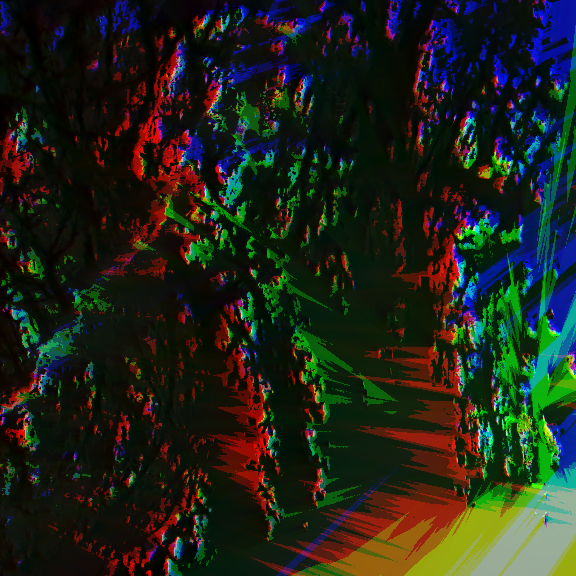
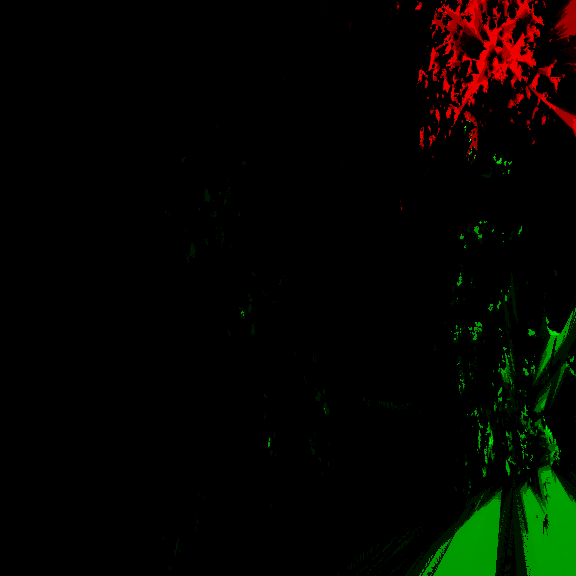
Streng beregning: støygulv, kalibrering mot målt mottak, skog og flere rygger
Den første utgaven var for raus; et sted den kalte godt, ga ikke mottak.
God dekning krever nå -105,5 dBm etter 12 dB kalibrering, tap over opptil
tre terrengrygger og demping i skog og bebyggelse (ESA WorldCover).
Nye steder å prøve, og usikker dekning vises som standard.

Claude-Session: https://claude.ai/code/session_01CYNK5MJwqcMcvN7AYTRmWK

diff --git a/index.html b/index.html
@@ -135,7 +135,7 @@ tr.svak td { color: var(--blekk2); }
       <label class="felt" for="node">Node
         <select id="node"><option value="-1">Alle noder</option></select>
       </label>
-      <label class="felt" for="usikker"><input type="checkbox" id="usikker"> Vis usikker dekning</label>
+      <label class="felt" for="usikker"><input type="checkbox" id="usikker" checked> Vis usikker dekning</label>
       <span class="merknad" id="frakoblet" hidden>Uten nett · lagret kart</span>
     </div>
   </header>
@@ -161,13 +161,16 @@ tr.svak td { color: var(--blekk2); }
       </section>
       <section>
         <h2>Steder å prøve</h2>
+        <p class="liten">Ingen steder i byen gir sikker dekning med den strenge beregningen. Dette er de beste sjansene.</p>
         <div class="steder" id="steder"></div>
       </section>
       <section class="liten">
         <h2>Slik er kartet laget</h2>
-        <p>Beregnet 21.11.2026 for en node holdt 1,5 m over bakken med liten innebygd antenne. Senderne er regnet med 22 dBm og 2 dBi.</p>
-        <p>God dekning betyr minst −115 dBm og sikt eller bare lett skygge fra terrenget. Usikker dekning er signal som må bøye seg over en rygg; det slår ofte ikke til.</p>
-        <p>Trær og hus er bare grovt med (30 m terrengmodell), og nodenes posisjoner er avrundet på map.868.no. Noder som bare er angitt på noen kilometer nær, som Sandø, er regnet fra flere mulige plasser, og dekningen vises der flertallet av dem gir den.</p>
+        <p>Streng beregning fra 21.11.2026 for en node holdt 1,5 m over bakken med 0 dBi antenne. Den forrige utgaven var for raus: Preståsen ga ikke mottak.</p>
+        <p>God dekning betyr minst −105 dBm, som er 6 dB over det svakeste noden kan lese når støygulvet er −104 dBm. Usikker dekning er de siste 6 dB ned til grensen.</p>
+        <p>Alle signaler er trukket ned 12 dB, etter et målt mottak med samme node over 38 km fri sikt. I tillegg kommer tap over opptil tre terrengrygger og gjennom skog og bebyggelse de siste 200 m.</p>
+        <p>Nodenes posisjoner er avrundet på map.868.no. Noder som bare er angitt på noen kilometer nær, som Sandø, må gi dekning fra fire av fem mulige plasser.</p>
+        <p>Nodene sender sjelden. Bli stående 15–20 minutter før du gir opp et sted.</p>
         <p>Bruk kartet til å velge hvor du går, ikke som fasit.</p>
       </section>
       <section class="liten" id="installer" hidden>
@@ -180,18 +183,17 @@ tr.svak td { color: var(--blekk2); }
 
 <script src="https://cdnjs.cloudflare.com/ajax/libs/leaflet/1.9.4/leaflet.min.js"></script>
 <script>
-const DATA = {"nx": 576, "ny": 576, "nord": 59.232176269218044, "sor": 59.02924933736394, "vest": 10.08544921875, "ost": 10.48095703125, "z": 14, "x1": 8651, "x2": 8668, "y1": 4827, "y2": 4844, "forutsetninger": {"sender_dbm": 22, "sender_dbi": 2, "kabel_db": 1, "mottaker_dbi": 0, "mottaker_m": 1.5, "god_dbm": -115.0, "tap_maks_db": 10.0}, "noder": [{"navn": "R-TEL-FJERDINGEN", "rolle": "ROUTER", "lat": 59.13559, "lon": 9.76808, "km": 29.2, "pakker6t": 7, "bits": 15, "plasser": 1}, {"navn": "R-FAE-SANDØ-WAM7", "rolle": "ROUTER", "lat": 59.08066, "lon": 10.46291, "km": 12.7, "pakker6t": 31, "bits": 13, "plasser": 5}, {"navn": "Råde, Rørfjell", "rolle": "ROUTER", "lat": 59.29779, "lon": 10.83226, "km": 36.4, "pakker6t": 6, "bits": 32, "plasser": 1}, {"navn": "Tux Brudeberget 18dBm", "rolle": "ROUTER", "lat": 59.47009, "lon": 9.90786, "km": 45.0, "pakker6t": 7, "bits": 13, "plasser": 5}, {"navn": "JELOYA-RUTER-NORTH", "rolle": "ROUTER", "lat": 59.42175, "lon": 10.59239, "km": 36.8, "pakker6t": 23, "bits": 32, "plasser": 1}, {"navn": "R-FÆR-Nøtterøy-Venås", "rolle": "ROUTER", "lat": 59.21006, "lon": 10.42634, "km": 12.2, "pakker6t": 4, "bits": 15, "plasser": 1}, {"navn": "Fredrikstad, Bjølstad", "rolle": "CLIENT_BASE", "lat": 59.20812, "lon": 10.91983, "km": 37.7, "pakker6t": 3, "bits": 15, "plasser": 1}, {"navn": "HORTEN-BASE-NORTH", "rolle": "CLIENT_BASE", "lat": 59.4125, "lon": 10.46852, "km": 32.6, "pakker6t": 7, "bits": 15, "plasser": 1}], "lagfiler": ["dekning-0.png", "dekning-1.png", "dekning-2.png"], "basis": [], "start": null, "sentrum": {"navn": "Sandefjord sentrum", "lat": 59.1312, "lon": 10.2167}, "steder": [{"navn": "Preståsen", "lat": 59.13386, "lon": 10.23823}, {"navn": "Breidablikk", "lat": 59.14759, "lon": 10.22655}, {"navn": "Storåsen", "lat": 59.16132, "lon": 10.2396}, {"navn": "Ringkollen", "lat": 59.11589, "lon": 10.25814}], "reserve": [{"fil": "kart14-00.jpg", "nord": 59.232176269218044, "sor": 59.130863097255904, "vest": 10.08544921875, "ost": 10.283203125}, {"fil": "kart14-01.jpg", "nord": 59.232176269218044, "sor": 59.130863097255904, "vest": 10.283203125, "ost": 10.48095703125}, {"fil": "kart14-10.jpg", "nord": 59.130863097255904, "sor": 59.02924933736394, "vest": 10.08544921875, "ost": 10.283203125}, {"fil": "kart14-11.jpg", "nord": 59.130863097255904, "sor": 59.02924933736394, "vest": 10.283203125, "ost": 10.48095703125}, {"fil": "kart15-0.jpg", "nord": 59.17029835064482, "sor": 59.130863097255904, "vest": 10.162353515625, "ost": 10.294189453125}, {"fil": "kart15-1.jpg", "nord": 59.130863097255904, "sor": 59.091382384559104, "vest": 10.162353515625, "ost": 10.294189453125}], "nett": true, "fliser": "https://cache.kartverket.no/v1/wmts/1.0.0/topograatone/default/webmercator/{z}/{y}/{x}.png"};
-const GOD = DATA.forutsetninger.god_dbm;
+const DATA = {"nx": 576, "ny": 576, "nord": 59.232176269218044, "sor": 59.02924933736394, "vest": 10.08544921875, "ost": 10.48095703125, "z": 14, "x1": 8651, "x2": 8668, "y1": 4827, "y2": 4844, "forutsetninger": {"sender_dbm": 22, "sender_dbi": 2, "kabel_db": 1, "mottaker_dbi": 0, "mottaker_m": 1.5, "kalibrering_db": 12.0, "stoy_dbm": -104.0, "lesbar_dbm": -111.5, "god_dbm": -105.5, "skog_db_m": 0.15, "skog_maks_db": 20.0, "hus_db_m": 0.1, "hus_maks_db": 12.0}, "noder": [{"navn": "R-FÆR-Nøtterøy-Venås", "rolle": "ROUTER", "lat": 59.21006, "lon": 10.42634, "km": 12.2, "pakker6t": 4, "bits": 15, "plasser": 1}, {"navn": "R-FAE-SANDØ-WAM7", "rolle": "ROUTER", "lat": 59.08066, "lon": 10.46291, "km": 12.7, "pakker6t": 31, "bits": 13, "plasser": 5}], "lagfiler": ["dekning-0.png"], "basis": [], "start": null, "sentrum": {"navn": "Sandefjord sentrum", "lat": 59.1312, "lon": 10.2167}, "steder": [{"navn": "Hubroåsen", "lat": 59.12223, "lon": 10.25265}, {"navn": "Midtås", "lat": 59.14337, "lon": 10.21763}, {"navn": "Ringkollen", "lat": 59.11589, "lon": 10.25883}, {"navn": "Hjertås", "lat": 59.16379, "lon": 10.22793}], "reserve": [{"fil": "kart14-00.jpg", "nord": 59.232176269218044, "sor": 59.130863097255904, "vest": 10.08544921875, "ost": 10.283203125}, {"fil": "kart14-01.jpg", "nord": 59.232176269218044, "sor": 59.130863097255904, "vest": 10.283203125, "ost": 10.48095703125}, {"fil": "kart14-10.jpg", "nord": 59.130863097255904, "sor": 59.02924933736394, "vest": 10.08544921875, "ost": 10.283203125}, {"fil": "kart14-11.jpg", "nord": 59.130863097255904, "sor": 59.02924933736394, "vest": 10.283203125, "ost": 10.48095703125}, {"fil": "kart15-0.jpg", "nord": 59.17029835064482, "sor": 59.130863097255904, "vest": 10.162353515625, "ost": 10.294189453125}, {"fil": "kart15-1.jpg", "nord": 59.130863097255904, "sor": 59.091382384559104, "vest": 10.162353515625, "ost": 10.294189453125}], "nett": true, "fliser": "https://cache.kartverket.no/v1/wmts/1.0.0/topograatone/default/webmercator/{z}/{y}/{x}.png"};
 const nx = DATA.nx, ny = DATA.ny, PER = nx / (DATA.x2 - DATA.x1 + 1);
 const N2 = Math.pow(2, DATA.z);
 const tall = (v, d = 0) => v.toLocaleString("nb-NO", { minimumFractionDigits: d, maximumFractionDigits: d }).replace("-", "−");
-const SIKT = ["bak terreng, usikker", "lett skygge", "streifer terrenget", "fri sikt"];
+const SIKT = ["på grensen, usikker", "bak terreng", "streifer terrenget", "fri sikt"];
 const RETN = ["N", "NØ", "Ø", "SØ", "S", "SV", "V", "NV"];
 
 let lag = [];            // én Uint8Array per node
 let visning = "signal";  // signal | antall
 let valgt = -1;          // nodeindeks, -1 = alle
-let visUsikker = false;
+let visUsikker = true;
 let godAntall = null;    // antall noder med god dekning per rute
 let meg = null;          // {lat, lon} når brukeren har markert seg selv
 let megMerke = null;
@@ -240,7 +242,7 @@ function farge(navn) {
   const h = getComputedStyle(document.documentElement).getPropertyValue(navn).trim().replace("#", "");
   return [parseInt(h.slice(0, 2), 16), parseInt(h.slice(2, 4), 16), parseInt(h.slice(4, 6), 16)];
 }
-const trinnSignal = rx => rx < -105 ? 0 : rx < -95 ? 1 : rx < -85 ? 2 : 3;
+const trinnSignal = rx => rx < -100 ? 0 : rx < -95 ? 1 : rx < -85 ? 2 : 3;
 const trinnAntall = n => n >= 5 ? 3 : n >= 3 ? 2 : n - 1;
 
 function tegn() {
@@ -255,7 +257,6 @@ function tegn() {
       const b = aktuelle[k][p];
       if (!b) continue;
       const rx = (b & 63) - 128;
-      if (rx < GOD) continue;
       if (b >> 6) { antall++; if (rx > best) best = rx; } else usikker = true;
     }
     if (antall) {
@@ -273,8 +274,8 @@ function tegn() {
 function tegnForklaring() {
   const rader = visning === "antall"
     ? [["--s4", "5 eller flere"], ["--s3", "3–4"], ["--s2", "2"], ["--s1", "1"]]
-    : [["--s4", "−85 eller sterkere"], ["--s3", "−95 til −85"], ["--s2", "−105 til −95"], ["--s1", "−115 til −105"]];
-  if (visUsikker) rader.push(["--usikker", "Bak terreng, usikker"]);
+    : [["--s4", "−85 eller sterkere"], ["--s3", "−95 til −85"], ["--s2", "−100 til −95"], ["--s1", "−105 til −100"]];
+  if (visUsikker) rader.push(["--usikker", "På grensen, usikker"]);
   const tittel = visning === "antall" ? "Noder med god dekning" : (valgt >= 0 ? "Signal fra valgt node, dBm" : "Sterkeste node, dBm");
   document.getElementById("forklaring").innerHTML = `<h2>${tittel}</h2><ul>` +
     rader.map(r => `<li><span class="rute" style="background:var(${r[0]})"></span>${r[1]}</li>`).join("") + "</ul>";
@@ -326,16 +327,16 @@ function noderI(p) {
   lag.forEach((l, k) => { const b = l[p]; if (b) ut.push({ k, rx: (b & 63) - 128, sikt: b >> 6 }); });
   return ut.sort((a, b) => b.rx - a.rx);
 }
-const gode = liste => liste.filter(n => n.sikt >= 1 && n.rx >= GOD);
+const gode = liste => liste.filter(n => n.sikt >= 1);
 
 function les(lat, lon, navn) {
   sikte.setLatLng([lat, lon]);
-  const alle = noderI(rute(lat, lon)), g = gode(alle), u = alle.filter(n => n.sikt === 0 && n.rx >= GOD);
+  const alle = noderI(rute(lat, lon)), g = gode(alle), u = alle.filter(n => n.sikt === 0);
   let h = `<h2>${navn || "Valgt punkt"}</h2><div class="hvor">${[tall(lat, 5) + ", " + tall(lon, 5), fraStart(lat, lon)].filter(Boolean).join(" · ")}</div>`;
   h += `<div class="dom">${g.length ? (g.length === 1 ? "Én node med god dekning" : g.length + " noder med god dekning") : "Ingen noder med god dekning her"}</div>`;
   const rad = (n, kl) => `<tr class="${kl}"><td>${DATA.noder[n.k].navn}<span class="sikt">${SIKT[n.sikt]} · ${tall(DATA.noder[n.k].km_fra(lat, lon), 1)} km unna${DATA.noder[n.k].bits <= 14 ? " · plassen er grovt angitt" : ""}</span></td><td class="tall">${tall(n.rx)} dBm</td></tr>`;
   if (g.length || u.length) h += "<table>" + g.map(n => rad(n, "")).join("") + u.slice(0, 4).map(n => rad(n, "svak")).join("") + "</table>";
-  if (!g.length && !u.length) h += "<p>Terrenget stenger for alle nodene. Prøv et høyere eller mer åpent sted.</p>";
+  if (!g.length && !u.length) h += "<p>Ingen noder er sterke nok her. Prøv et åpent sted med fri sikt mot en node.</p>";
   siste = { lat, lon, naer: null };
   if (!g.length) {
     const n = naermesteGode(lat, lon);
@@ -476,7 +477,7 @@ function lastLag(fil) {
 Promise.all(DATA.lagfiler.map(lastLag)).then(deler => {
   lag = deler.flat().slice(0, DATA.noder.length);
   godAntall = new Uint8Array(nx * ny);
-  lag.forEach(l => { for (let p = 0; p < nx * ny; p++) { const b = l[p]; if (b >> 6 && (b & 63) - 128 >= GOD) godAntall[p]++; } });
+  lag.forEach(l => { for (let p = 0; p < nx * ny; p++) { const b = l[p]; if (b >> 6) godAntall[p]++; } });
   tegn();
   try { const m = JSON.parse(localStorage.getItem("dekning-meg") || "null"); if (m && grenser.contains([m.lat, m.lon])) settMeg(m.lat, m.lon, false); } catch (e) {}
   tegnSteder();
@@ -488,10 +489,11 @@ Promise.all(DATA.lagfiler.map(lastLag)).then(deler => {
 function tegnSteder() {
   document.getElementById("steder").innerHTML = "";
   DATA.steder.forEach(s => {
-    const g = gode(noderI(rute(s.lat, s.lon)));
+    const alle = noderI(rute(s.lat, s.lon)), g = gode(alle);
+    const status = g.length ? `${g.length} ${g.length === 1 ? "node" : "noder"}<br>${tall(g[0].rx)} dBm` : alle.length ? `På grensen<br>${tall(alle[0].rx)} dBm` : "Ingen";
     const k = document.createElement("button");
     k.type = "button"; k.className = "sted";
-    k.innerHTML = `<div><b>${s.navn}</b><br><span>${fraStart(s.lat, s.lon)}</span></div><span>${g.length} ${g.length === 1 ? "node" : "noder"}${g.length ? "<br>" + tall(g[0].rx) + " dBm" : ""}</span>`;
+    k.innerHTML = `<div><b>${s.navn}</b><br><span>${fraStart(s.lat, s.lon)}</span></div><span>${status}</span>`;
     k.addEventListener("click", () => { kart.flyTo([s.lat, s.lon], 15, { duration: 0.6 }); les(s.lat, s.lon, s.navn); });
     document.getElementById("steder").appendChild(k);
   });

diff --git a/sw.js b/sw.js
@@ -1,6 +1,6 @@
-// Dekning Sandefjord: lagrer appen og kartet så den virker uten nett. Bygget 20261121-115001.
-const LAGER = "dekning-20261121-115001", FLISER = "dekning-fliser", MAKS_FLISER = 800;
-const FAST = ["./", "manifest.webmanifest", "ikon-192.png", "apple-touch-icon.png", "https://cdnjs.cloudflare.com/ajax/libs/leaflet/1.9.4/leaflet.min.js", "dekning-0.png", "dekning-1.png", "dekning-2.png", "kart14-00.jpg", "kart14-01.jpg", "kart14-10.jpg", "kart14-11.jpg", "kart15-0.jpg", "kart15-1.jpg"];
+// Dekning Sandefjord: lagrer appen og kartet så den virker uten nett. Bygget 20261121-144949.
+const LAGER = "dekning-20261121-144949", FLISER = "dekning-fliser", MAKS_FLISER = 800;
+const FAST = ["./", "manifest.webmanifest", "ikon-192.png", "apple-touch-icon.png", "https://cdnjs.cloudflare.com/ajax/libs/leaflet/1.9.4/leaflet.min.js", "dekning-0.png", "kart14-00.jpg", "kart14-01.jpg", "kart14-10.jpg", "kart14-11.jpg", "kart15-0.jpg", "kart15-1.jpg"];
 
 self.addEventListener("install", e => {
   e.waitUntil(caches.open(LAGER).then(c => c.addAll(FAST)).then(() => self.skipWaiting()));

diff --git a/README.md b/README.md
@@ -21,21 +21,29 @@ du åpner den, og kartfliser du har sett på, blir liggende. Uten nett er kartet
 
 ## Slik er det laget
 
-- Beregnet 21.11.2026 for en node holdt 1,5 m over bakken med liten innebygd antenne (0 dBi). Senderne er regnet
+- Streng beregning fra 21.11.2026 for en node holdt 1,5 m over bakken med 0 dBi antenne. Senderne er regnet
   med 22 dBm, 2 dBi og 1 dB kabeltap, på 869,44 MHz (EU_N_868 / Narrow Fast).
-- Tapet er fritt rom pluss én knivsegg over den dominerende hindringen i terrengsnittet, med 4/3 jordradius.
-- God dekning er minst −115 dBm og høyst 10 dB tap over hindringen. Usikker dekning er signal som må bøye seg
-  mer enn det over en rygg.
+- Den første utgaven var for raus: et sted den kalte godt, ga ikke mottak. Denne utgaven er strammet inn slik:
+  - God dekning er minst −105,5 dBm: 6 dB over det svakeste en node leser (SNR −7,5 dB) når støygulvet er
+    −104 dBm, som er målt på noden kartet er laget for. Usikker dekning er de siste 6 dB ned til −111,5 dBm.
+  - Alle signaler er trukket ned 12 dB. Det er forskjellen mellom modellen og et målt mottak med samme node
+    over 38 km fri sikt. Målingen er gjort bak et vindu, så tallet kan være noen dB for strengt ute.
+  - Terrengtapet er regnet over opptil tre rygger (Deygout, ITU-R P.526), ikke bare den største, med 4/3 jordradius.
+  - Skog og bebyggelse de siste 200 m inn mot mottakeren demper signalet: 50 m skog gir 6 dB, 200 m gir 16 dB.
+    Formen er fra ITU-R P.833, tallene er anslag.
+  - Noder som bare er angitt på noen kilometer nær, er regnet fra fem mulige plasser, og dekningen vises bare
+    der minst fire av dem gir den.
 - Bare faste noder er med (ROUTER og CLIENT_BASE) som er sett på kanalen NarrowFast.
-- Noder som bare er angitt på noen kilometer nær, er regnet fra fem mulige plasser, og dekningen vises der
-  flertallet gir den.
-- Rutenettet er ca. 39 m. Trær og hus er bare grovt med, siden terrengmodellen har 30 m ruter.
+- Rutenettet er ca. 39 m.
+- Nodene sender sjelden. Bli stående 15–20 minutter på et sted før du gir det opp.
 
 ## Kilder
 
 - Bakgrunnskart: © Kartverket (CC BY 4.0), hentet direkte fra Kartverkets flistjeneste.
 - Noder: posisjoner, roller og kanal fra [map.868.no](https://map.868.no), kartet til det norske
   Meshtastic-miljøet. Dette prosjektet er ikke en del av map.868.no.
+- Arealdekke (skog, bebyggelse, vann): © ESA WorldCover project 2021 / Contains modified Copernicus Sentinel
+  data (2021) processed by ESA WorldCover consortium (CC BY 4.0).
 - Terreng: Copernicus DEM GLO-30. Produced using Copernicus WorldDEM-30 © DLR e.V. 2010-2014 and © Airbus Defence
   and Space GmbH 2014-2018 provided under COPERNICUS by the European Union and ESA; all rights reserved.
 - Kartbibliotek: [Leaflet](https://leafletjs.com) (BSD-2-Clause).
